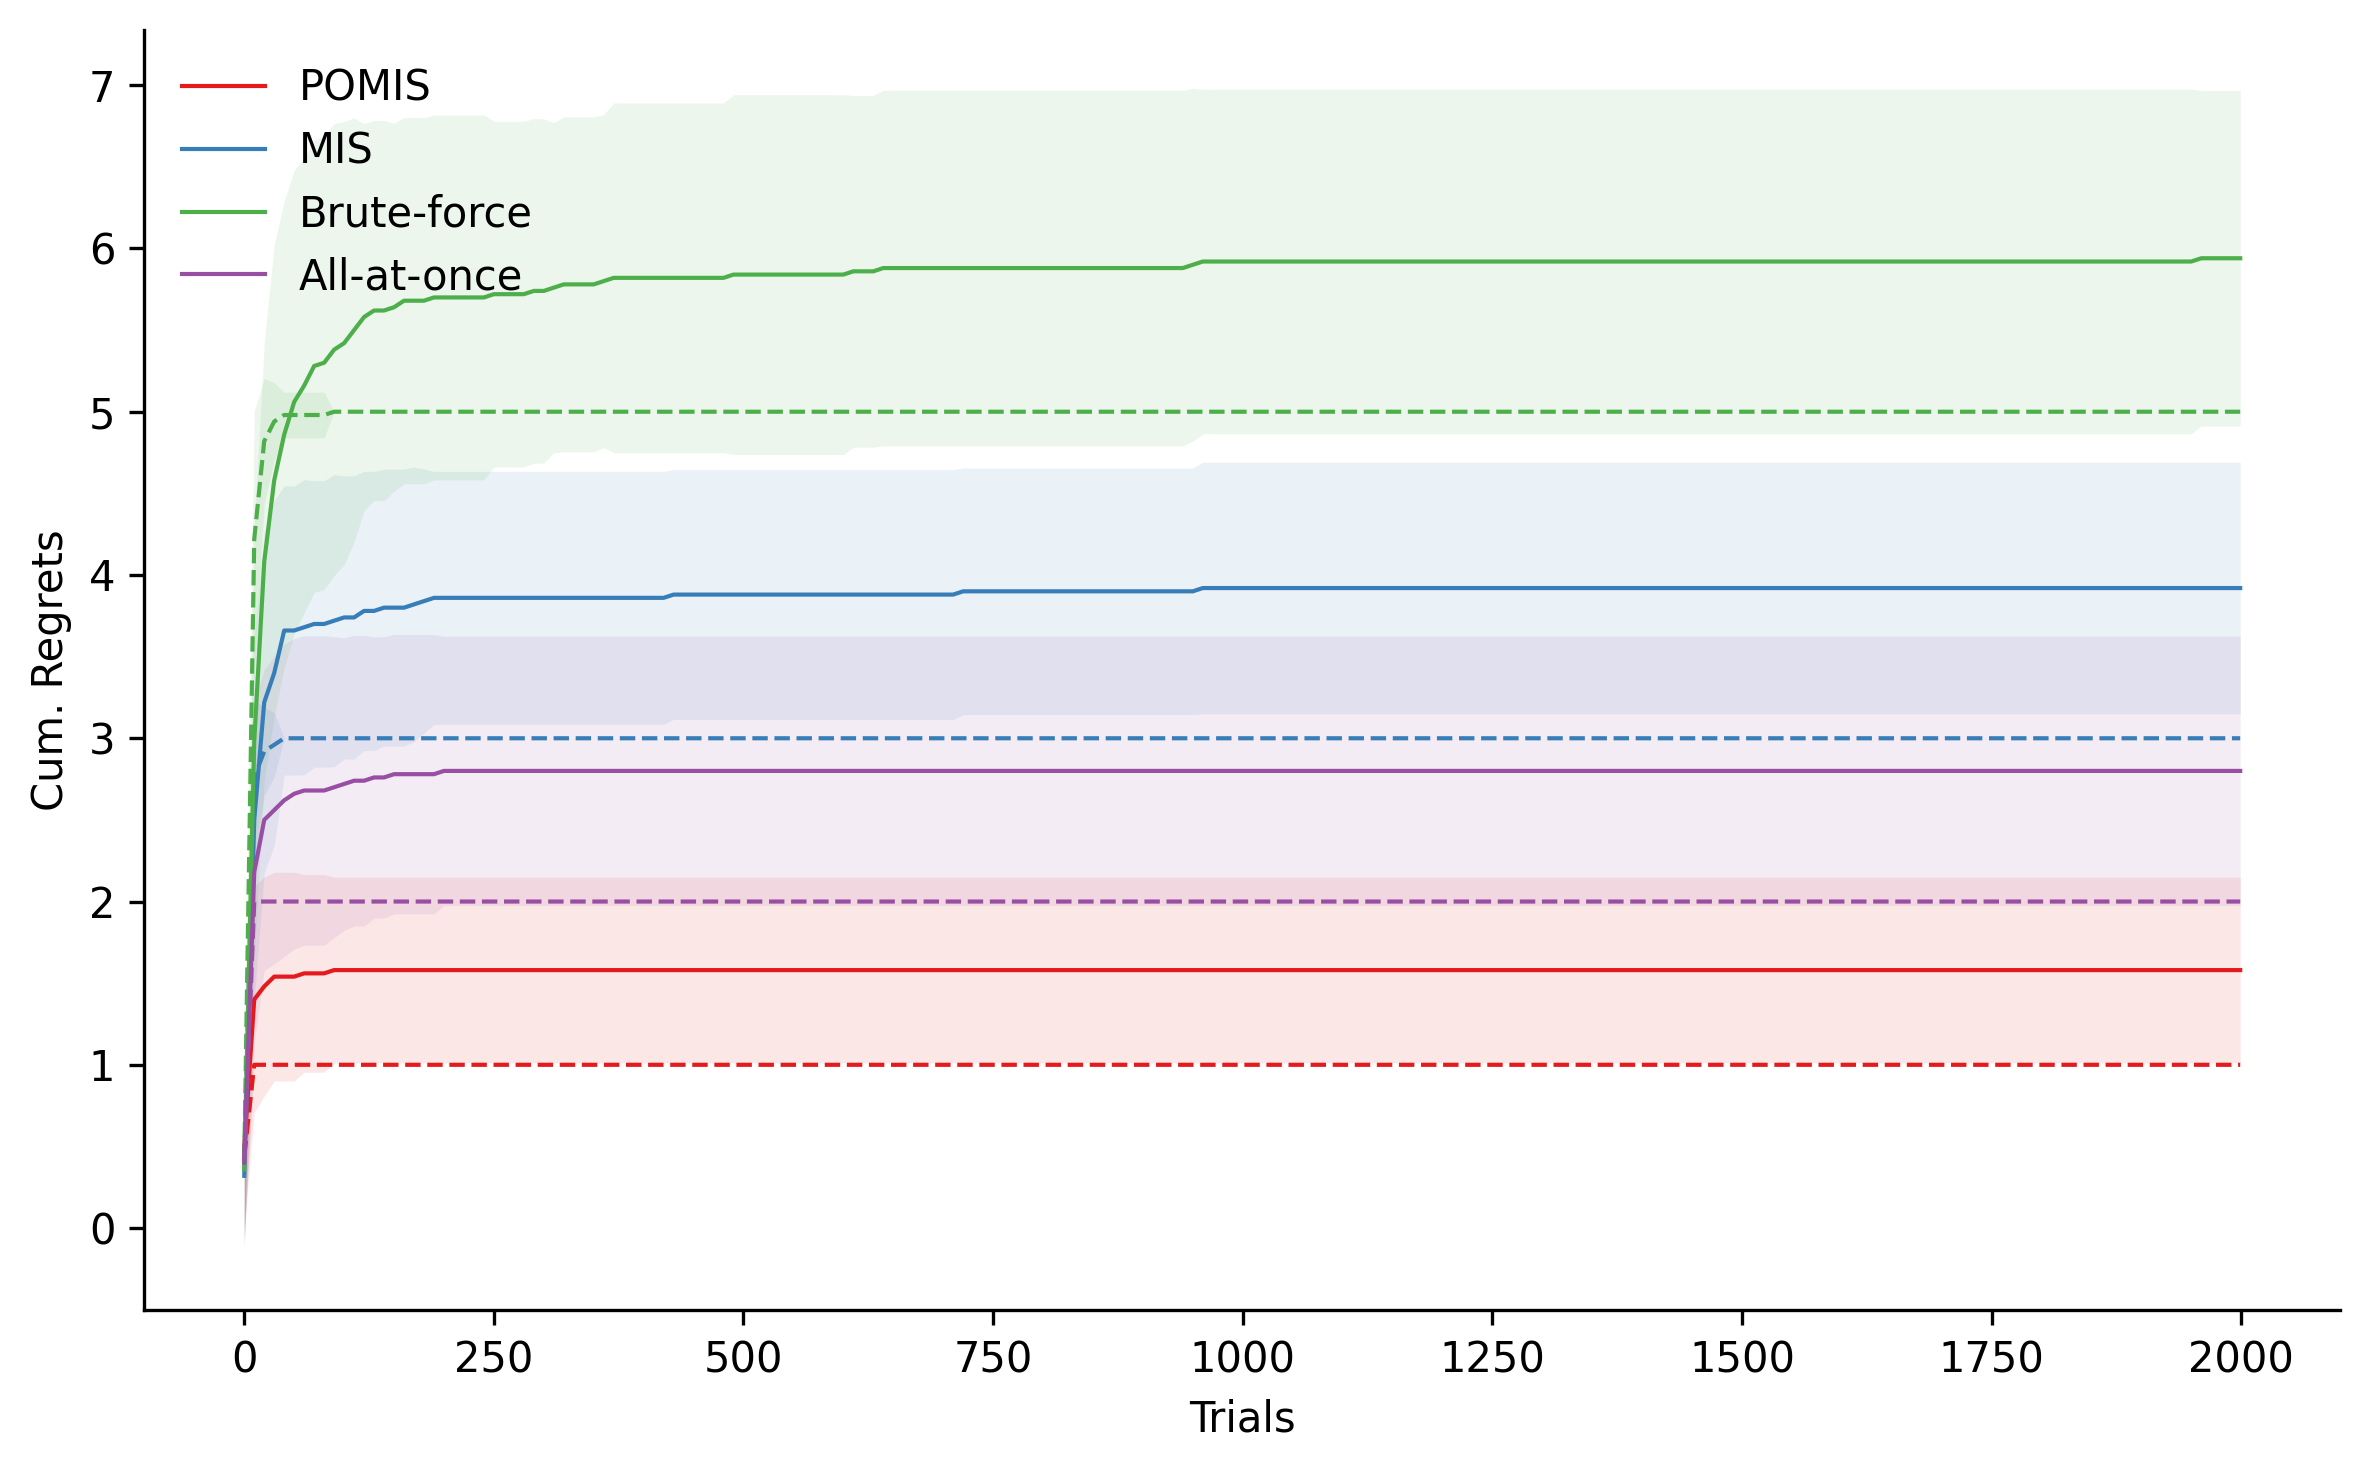
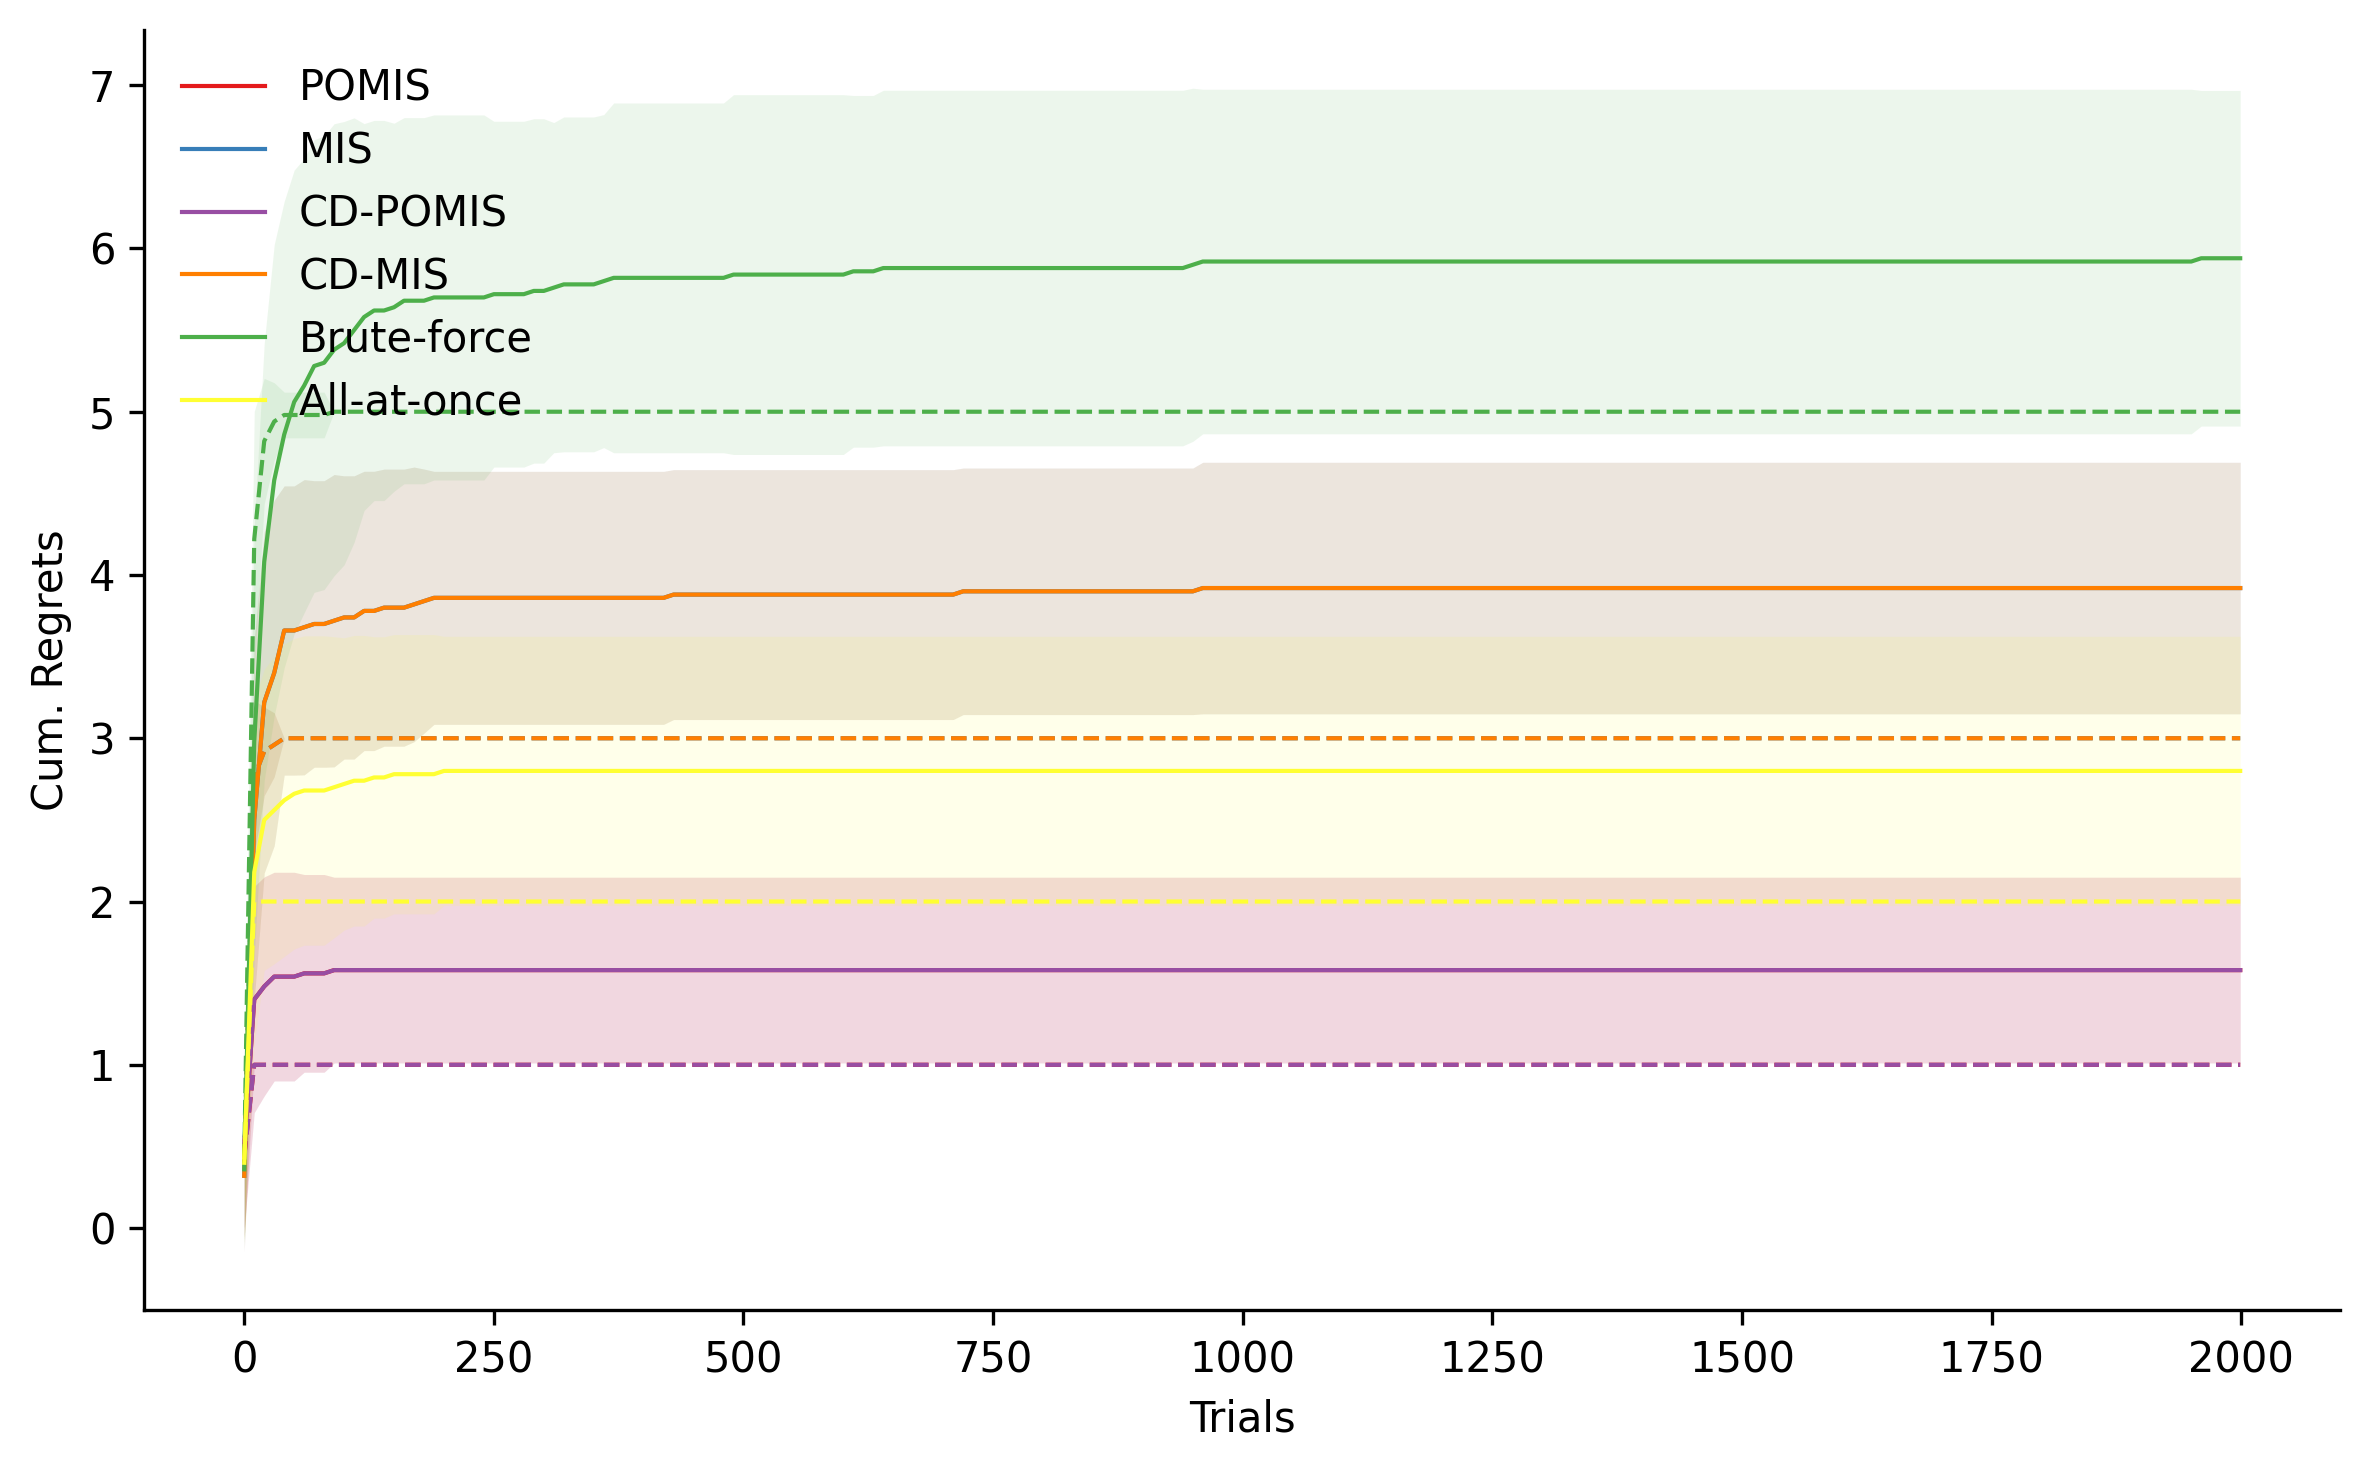
feat: rename the methods to CD-POMIS and CD-MIS and add POMIS and MIS in plots

Changed region(s): [[0.0937, 0.3061, 0.9679, 0.7653], [0.1249, 0.1224, 0.2186, 0.2755]]

diff --git a/causal_discovery_bandit_integration.py b/causal_discovery_bandit_integration.py
@@ -118,36 +118,73 @@ def run_discovery_bandit_experiment(
     print(f"   Created {len(mu)} bandit arms")
     print(f"   Expected rewards: {mu}")
 
-    # Define arm strategies to compare (using all available types)
-    arm_strategies = arm_types()  # ["POMIS", "MIS", "Brute-force", "All-at-once"]
+    # Define strategies to compare
+    # We'll test both ground truth and discovered POMIS/MIS
     bandit_algorithms = ["TS", "UCB"]
-
     results = {}
 
-    for arm_strategy in arm_strategies:
+    # Helper function to get arms from discovered sets
+    def cd_pomis_arms_of(arm_setting, pomis_union):
+        """Get arms matching discovered POMIS union."""
+        arms = []
+        for arm_id, intervention in arm_setting.items():
+            intervened_vars = tuple(sorted(intervention.keys()))
+            if intervened_vars in pomis_union:
+                arms.append(arm_id)
+        return tuple(arms)
+
+    def cd_mis_arms_of(arm_setting, mis_union):
+        """Get arms matching discovered MIS union."""
+        arms = []
+        for arm_id, intervention in arm_setting.items():
+            intervened_vars = tuple(sorted(intervention.keys()))
+            if intervened_vars in mis_union:
+                arms.append(arm_id)
+        return tuple(arms)
+
+    # Strategy configurations: (name, arm_selector_function, description)
+    strategy_configs = [
+        ("POMIS", lambda: arms_of("POMIS", arm_setting, ground_truth_scm.G, Y), "ground truth"),
+        ("MIS", lambda: arms_of("MIS", arm_setting, ground_truth_scm.G, Y), "ground truth"),
+        ("CD-POMIS", lambda: cd_pomis_arms_of(arm_setting, pomis_union), "discovered"),
+        ("CD-MIS", lambda: cd_mis_arms_of(arm_setting, mis_union), "discovered"),
+        ("Brute-force", lambda: arms_of("Brute-force", arm_setting, ground_truth_scm.G, Y), None),
+        ("All-at-once", lambda: arms_of("All-at-once", arm_setting, ground_truth_scm.G, Y), None),
+    ]
+
+    for strategy_name, arm_selector, description in strategy_configs:
         try:
-            arm_selected = arms_of(arm_strategy, arm_setting, ground_truth_scm.G, Y)
+            arm_selected = arm_selector()
+            desc_str = f" ({description})" if description else ""
             print(
-                f"   {arm_strategy}: Found {len(arm_selected)} arms out of {len(arm_setting)} total"
+                f"   {strategy_name}{desc_str}: Found {len(arm_selected)} arms out of {len(arm_setting)} total"
             )
+            
+            # Show which intervention sets are being used
+            if strategy_name in ["POMIS", "CD-POMIS", "MIS", "CD-MIS"]:
+                intervention_sets = [set(arm_setting[i].keys()) for i in arm_selected]
+                unique_sets = sorted([tuple(sorted(s)) for s in set(map(frozenset, intervention_sets))])
+                print(f"      Intervention sets: {unique_sets}")
             if len(arm_selected) == 0:
-                print(f"   Warning: No arms found for strategy {arm_strategy}")
+                print(f"   Warning: No arms found for strategy {strategy_name}")
                 continue
 
             arm_corrector = np.vectorize(lambda x: arm_selected[x])
 
             for bandit_algo in bandit_algorithms:
-                print(f"   Running {arm_strategy} + {bandit_algo}...")
+                print(f"   Running {strategy_name} + {bandit_algo}...")
                 arm_played, rewards = play_bandits(
                     horizon, subseq(mu, arm_selected), bandit_algo, num_trials, n_jobs
                 )
-                results[(arm_strategy, bandit_algo)] = (
+                results[(strategy_name, bandit_algo)] = (
                     arm_corrector(arm_played),
                     rewards,
                 )
 
         except Exception as e:
-            print(f"   Error with {arm_strategy}: {e}")
+            print(f"   Error with {strategy_name}: {e}")
+            import traceback
+            traceback.print_exc()
             continue
 
     # Step 6: Analysis and visualization
@@ -254,6 +291,8 @@ def main():
     print(f"   Parameters: {p_u_params}")
 
     # Run the integrated experiment
+    # Standard NIPS 2018 settings: num_trials=200, horizon=10000
+    # For quick testing, use: num_trials=50, horizon=2000
     results = run_discovery_bandit_experiment(
         ground_truth_scm=ground_truth_scm,
         Y="Y",

diff --git a/npsem/causal_visualization.py b/npsem/causal_visualization.py
@@ -217,10 +217,7 @@ def plot_cpdag_pydot(
 
 def get_pomis_for_dag(dag_matrix: np.ndarray, var_names: List[str], Y: str):
     """
-    Get POMIS set for a specific DAG.
-
-    This function creates a temporary SCM for the given DAG and computes
-    its POMIS set for visualization purposes.
+    Get POMIS sets for a specific DAG.
 
     Parameters:
     -----------
@@ -233,44 +230,18 @@ def get_pomis_for_dag(dag_matrix: np.ndarray, var_names: List[str], Y: str):
 
     Returns:
     --------
-    List[str]
-        List of variable names in the POMIS set
+    List[List[str]]
+        List of POMIS sets, each containing variable names
     """
     try:
         from npsem.causal_diagram_utils import dagmatrix_to_CausalDiagram
-        from npsem.scm_bandits import SCM_to_bandit_machine, arms_of
-        from npsem.model import StructuralCausalModel, default_P_U
+        from npsem.where_do import POMISs
 
-        # Create temporary SCM for this DAG
         temp_g = dagmatrix_to_CausalDiagram(dag_matrix, var_names)
-        temp_scm = StructuralCausalModel(
-            temp_g,
-            F={
-                "Z": lambda v: v.get("U_Z", 0),
-                "X": lambda v: v.get("U_X", 0),
-                "Y": lambda v: v.get("U_Y", 0),
-            },
-            P_U=default_P_U({"U_Z": 0.5, "U_X": 0.5, "U_Y": 0.5}),
-            D=defaultdict(lambda: (0, 1)),
-            more_U={"U_Z", "U_X", "U_Y"},
-        )
-
-        # Get POMIS set
-        _, arm_setting = SCM_to_bandit_machine(temp_scm, Y)
-        pomis_arms = arms_of("POMIS", arm_setting, temp_g, Y)
-
-        # Convert arm indices to variable names
-        pomis_vars = []
-        for arm_idx in pomis_arms:
-            if arm_idx in arm_setting:
-                arm_info = arm_setting[arm_idx]
-                # Extract variable name from intervention
-                for var in var_names:
-                    if var in str(arm_info):
-                        if var not in pomis_vars:
-                            pomis_vars.append(var)
-
-        return pomis_vars
+        pomis_sets = POMISs(temp_g, Y)
+        
+        # Convert frozensets to sorted lists for display
+        return [sorted(list(s)) if s else [] for s in pomis_sets]
     except Exception:
         return []
 
@@ -381,12 +352,15 @@ def create_combined_sanity_check_visualization(
     pomis_paths = []
     for i, dag in enumerate(dags):
         temp_g = dagmatrix_to_CausalDiagram(dag, var_names)
-        pomis_vars = get_pomis_for_dag(dag, var_names, Y)
+        pomis_sets = get_pomis_for_dag(dag, var_names, Y)
+        # Highlight all variables that appear in any POMIS
+        pomis_vars = list(set([var for pomis_set in pomis_sets for var in pomis_set]))
+        pomis_label = ", ".join([str(s) if s else "∅" for s in pomis_sets])
         pomis_path = plot_causal_diagram_pydot(
             temp_g,
             var_names,
             f"temp_pomis_{i + 1}",
-            f"DAG {i + 1} (POMIS: {pomis_vars})",
+            f"DAG {i + 1} (POMIS: {pomis_label})",
             highlight_nodes=pomis_vars,
             figures_dir=figures_dir,
             consistent_sizing=True,
@@ -438,7 +412,8 @@ def create_combined_sanity_check_visualization(
     # Add POMIS images
     for i, pomis_path in enumerate(pomis_paths):
         pomis_vars = get_pomis_for_dag(dags[i], var_names, Y)
-        images.append((pomis_path, f"DAG {i + 1} (POMIS: {pomis_vars})"))
+        pomis_label = ", ".join([str(s) if s else "∅" for s in pomis_vars])
+        images.append((pomis_path, f"DAG {i + 1} (POMIS: {pomis_label})"))
     
     # Add MIS images
     for i, mis_path in enumerate(mis_paths):

diff --git a/npsem/plotting.py b/npsem/plotting.py
@@ -307,15 +307,29 @@ def plot_cumulative_regret_from_analysis(
     """
     setup_paper_style()
 
-    # Use the same color palette as the paper
-    c__ = sns.color_palette("Set1", 4)
-    COLORS = [c__[0], c__[0], c__[1], c__[1], c__[2], c__[2], c__[3], c__[3]]
+    # Use an expanded color palette to support more strategies
+    # We need to support: POMIS, MIS, CD-POMIS, CD-MIS, Brute-force, All-at-once
+    # Each with TS and UCB = 12 combinations
+    c__ = sns.color_palette("Set1", 9)  # Expanded palette
+    # Pair colors: same color for TS/UCB of each strategy
+    COLORS = [
+        c__[0], c__[0],  # POMIS TS/UCB
+        c__[1], c__[1],  # MIS TS/UCB
+        c__[3], c__[3],  # CD-POMIS TS/UCB
+        c__[4], c__[4],  # CD-MIS TS/UCB
+        c__[2], c__[2],  # Brute-force TS/UCB
+        c__[5], c__[5],  # All-at-once TS/UCB
+    ]
 
-    # Map strategies to colors (matching paper's approach)
+    # Map strategies to colors
     strategy_algo_pairs = [(strategy, algo) for (strategy, algo) in analysis.keys()]
     strategy_colors = {}
     for i, (arm_strategy, bandit_algo) in enumerate(strategy_algo_pairs):
-        strategy_colors[(arm_strategy, bandit_algo)] = COLORS[i]
+        if i < len(COLORS):
+            strategy_colors[(arm_strategy, bandit_algo)] = COLORS[i]
+        else:
+            # Fallback to cycling through colors if we have more strategies
+            strategy_colors[(arm_strategy, bandit_algo)] = COLORS[i % len(COLORS)]
 
     # Create the plot
     fig, ax = plt.subplots(1, 1, figsize=(8, 5))
@@ -405,15 +419,29 @@ def plot_final_regret_comparison_from_analysis(
     """
     setup_paper_style()
 
-    # Use the same color palette as the paper
-    c__ = sns.color_palette("Set1", 4)
-    COLORS = [c__[0], c__[0], c__[1], c__[1], c__[2], c__[2], c__[3], c__[3]]
+    # Use an expanded color palette to support more strategies
+    # We need to support: POMIS, MIS, CD-POMIS, CD-MIS, Brute-force, All-at-once
+    # Each with TS and UCB = 12 combinations
+    c__ = sns.color_palette("Set1", 9)  # Expanded palette
+    # Pair colors: same color for TS/UCB of each strategy
+    COLORS = [
+        c__[0], c__[0],  # POMIS TS/UCB
+        c__[1], c__[1],  # MIS TS/UCB
+        c__[3], c__[3],  # CD-POMIS TS/UCB
+        c__[4], c__[4],  # CD-MIS TS/UCB
+        c__[2], c__[2],  # Brute-force TS/UCB
+        c__[5], c__[5],  # All-at-once TS/UCB
+    ]
 
-    # Map strategies to colors (matching paper's approach)
+    # Map strategies to colors
     strategy_algo_pairs = [(strategy, algo) for (strategy, algo) in analysis.keys()]
     strategy_colors = {}
     for i, (arm_strategy, bandit_algo) in enumerate(strategy_algo_pairs):
-        strategy_colors[(arm_strategy, bandit_algo)] = COLORS[i]
+        if i < len(COLORS):
+            strategy_colors[(arm_strategy, bandit_algo)] = COLORS[i]
+        else:
+            # Fallback to cycling through colors if we have more strategies
+            strategy_colors[(arm_strategy, bandit_algo)] = COLORS[i % len(COLORS)]
 
     # Extract data for plotting
     strategies = []

diff --git a/npsem/causal_pipeline.py b/npsem/causal_pipeline.py
@@ -84,10 +84,10 @@ def run_causal_discovery_pipeline(
         print(f"   Found {len(dags)} DAGs in the Markov Equivalence Class")
 
     # Step 4: Compute POMIS union
-    pomis_union = pomis_union_over_dags(dags, names_pc, Y)
+    pomis_union = pomis_union_over_dags(dags, names_pc, Y, enforce_Y_sink=True) # False to include DAGs with Y->*
     
     # Step 5: Compute MIS union
-    mis_union = mis_union_over_dags(dags, names_pc, Y)
+    mis_union = mis_union_over_dags(dags, names_pc, Y, enforce_Y_sink=True) # False to include DAGs with Y->*
 
     if sanity_check:
         print("\n3⃣ POMIS Analysis Complete")
